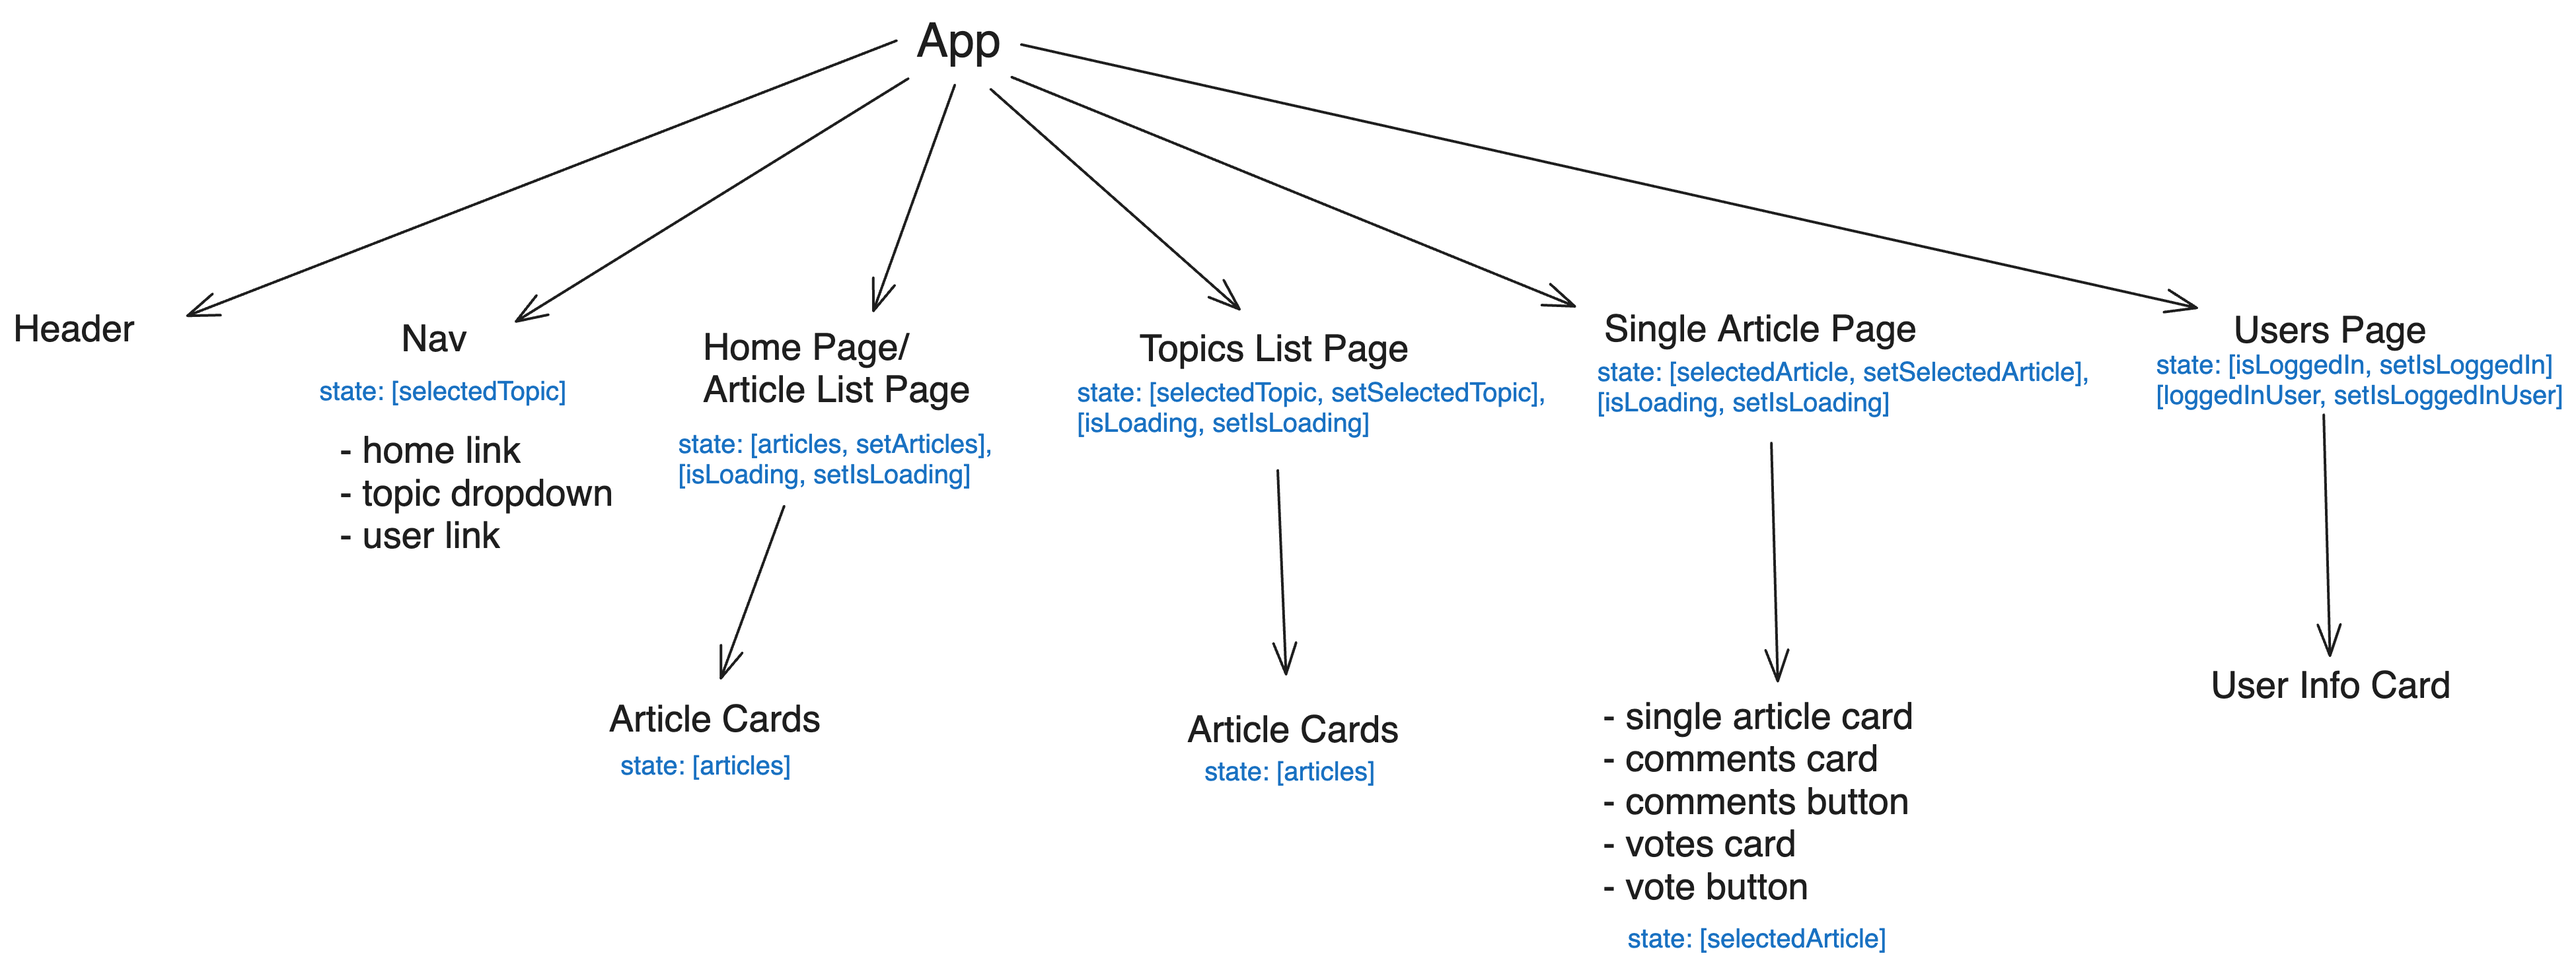
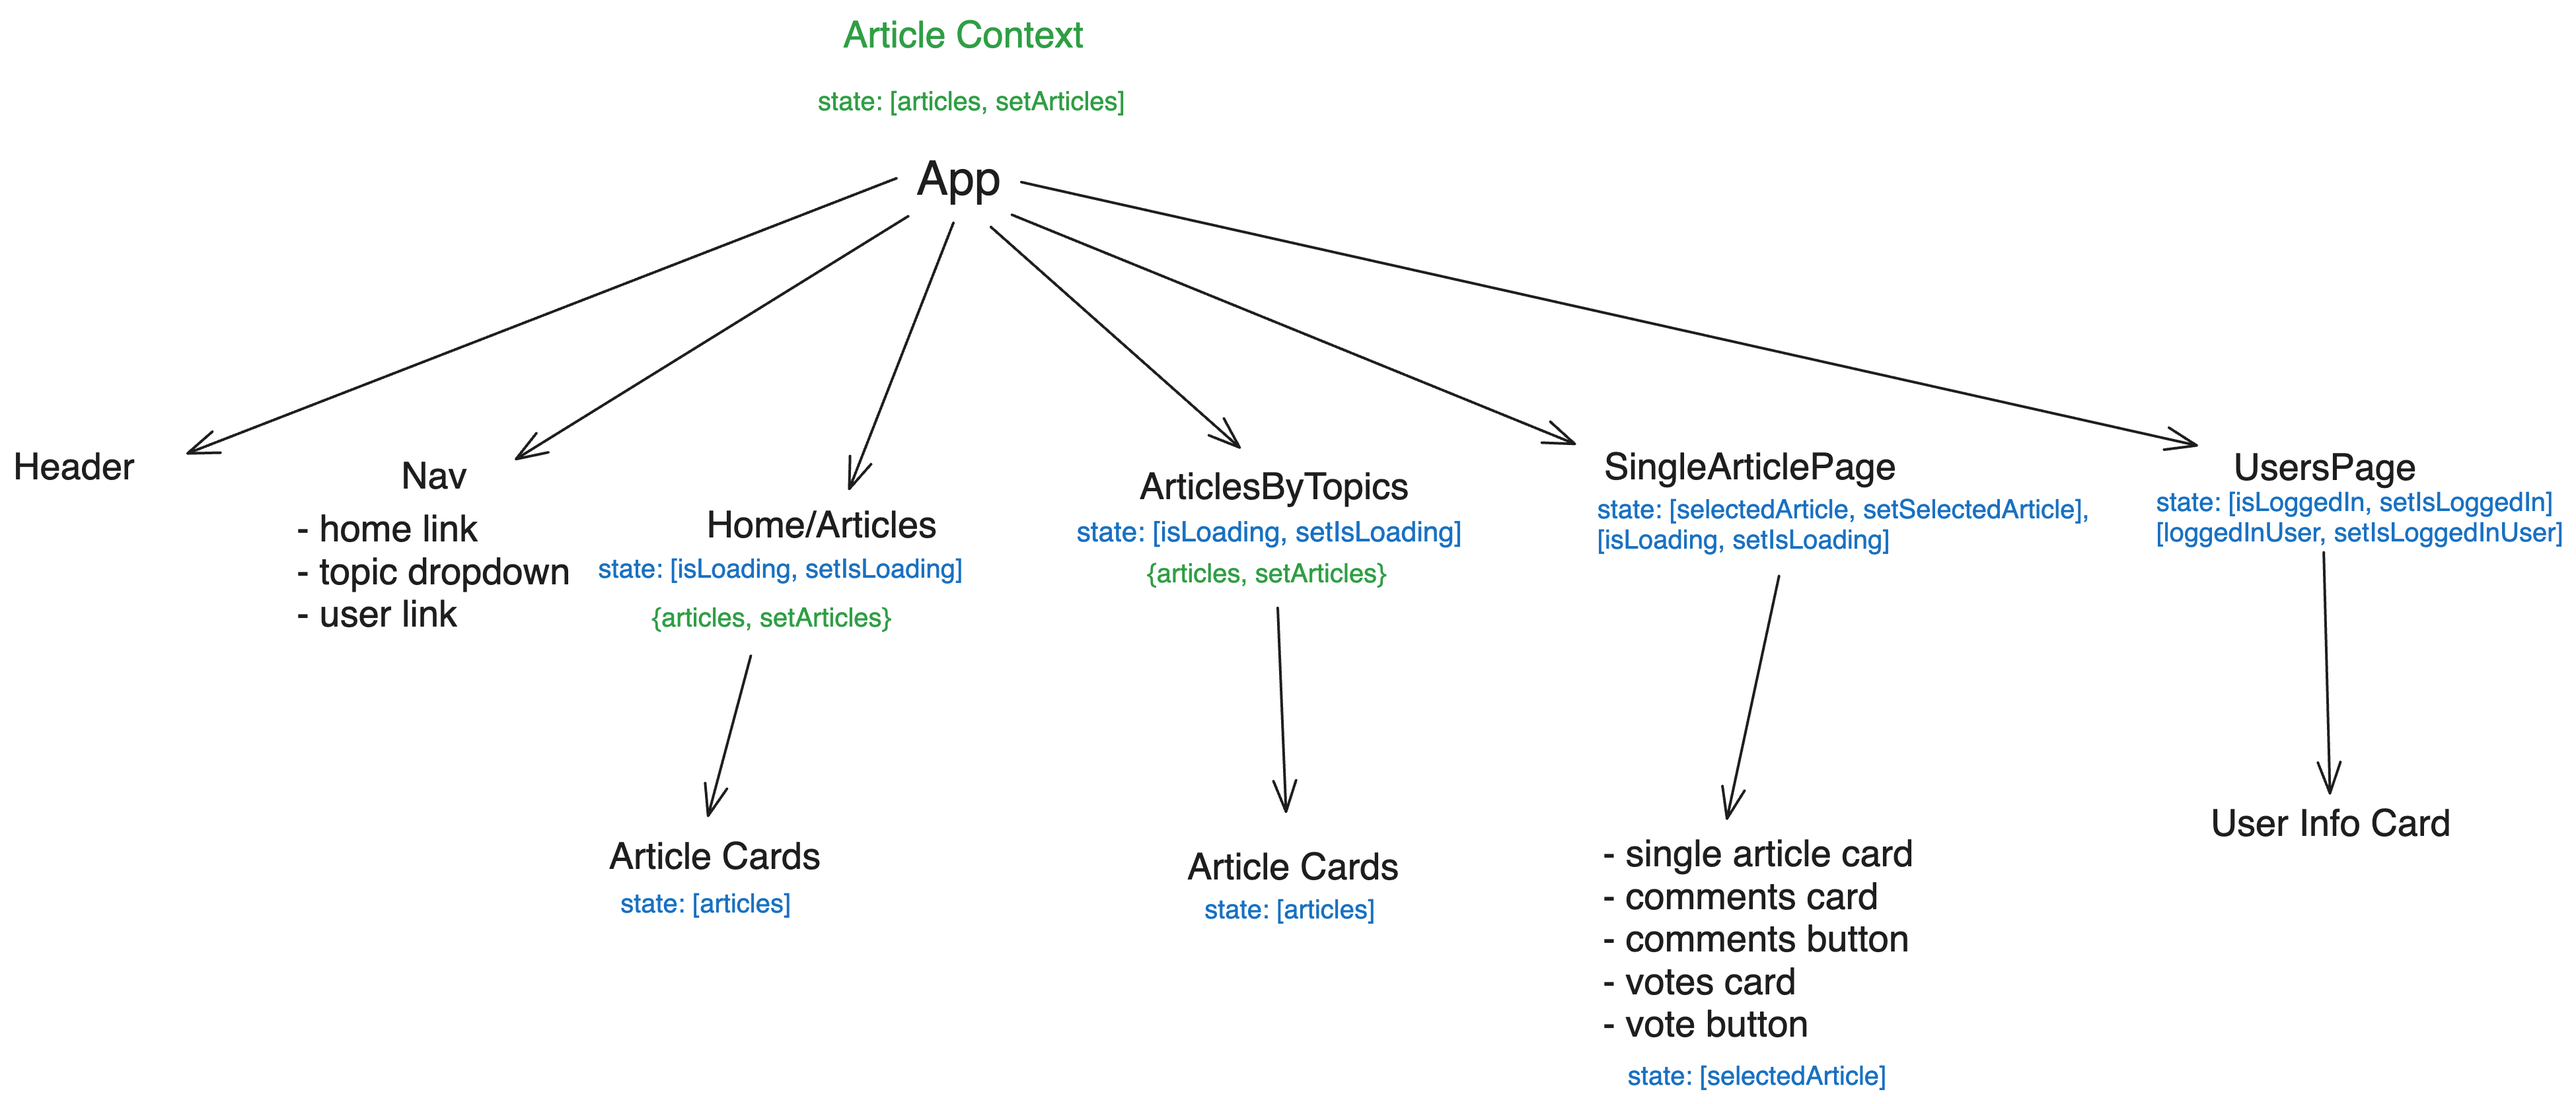
ticket 4 refactored with context

diff --git a/src/App.jsx b/src/App.jsx
@@ -1,21 +1,27 @@
 import './App.css';
 import Header from './components/Header'
 import Nav from './components/Nav';
-import Articles from './components/Articles'
-import ArticlesByTopic from './components/ArticlesByTopic'
+import Articles from './components/Articles';
+import ArticlesByTopic from './components/ArticlesByTopic';
+import ArticleContext from './context/ArticleContext';
 import { Routes, Route } from 'react-router-dom';
+import { createContext, useState } from 'react';
 
 function App() {
+
+    const [articles, setArticles] = useState([]);
 
     return (
     <div className="App">
         <Header />
         <Nav />
+        <ArticleContext.Provider value={{ articles, setArticles }}>
         <Routes>
         <Route path="/" element={<Articles/>} />
         <Route path="/articles" element={<Articles/>} />
         <Route path="/topics/:topic" element={<ArticlesByTopic/>} />
         </Routes>
+        </ArticleContext.Provider>
         </div>
     )
 }

diff --git a/src/components/ArticlesByTopic.jsx b/src/components/ArticlesByTopic.jsx
@@ -1,11 +1,12 @@
 import { useParams } from "react-router-dom";
-import { useState, useEffect } from "react";
+import { useContext, useState, useEffect } from "react";
 import { fetchData } from "../../utils/api";
+import ArticleContext from '../context/ArticleContext'
 
 const ArticlesByTopic = () => {
     const { topic } = useParams();
+    const { articles, setArticles } = useContext(ArticleContext);
     const [isLoading, setIsLoading] = useState(true);
-    const [articles, setArticles] = useState([]);
 
     useEffect(() => {
         setIsLoading(true);
@@ -14,7 +15,7 @@ const ArticlesByTopic = () => {
                 setArticles(data.articles);
                 setIsLoading(false);
             })
-    }, [topic]);
+    }, [topic, setArticles]);
 
     const articlesByTopicMap = articles.map((article) => (
         <li className="article" key={article.article_id}>

diff --git a/src/components/Articles.jsx b/src/components/Articles.jsx
@@ -1,9 +1,10 @@
-import { useState, useEffect } from "react";
+import { useContext, useState, useEffect } from "react";
+import ArticleContext from '../context/ArticleContext'
 import { fetchData } from "../../utils/api";
 
 const Articles = () => {
     const [isLoading, setIsLoading] = useState(true);
-    const [articles, setArticles] = useState([]);
+    const { articles, setArticles } = useContext(ArticleContext);
 
     useEffect(() => {
         setIsLoading(true);
@@ -12,7 +13,7 @@ const Articles = () => {
                 setArticles(data.articles);
                 setIsLoading(false);
             })
-    }, []);
+    }, [setArticles]);
 
 
     const articlesMap = articles.map((article) => (

diff --git a/src/context/ArticleContext.jsx b/src/context/ArticleContext.jsx
@@ -1,0 +1,5 @@
+import { createContext } from "react";
+
+const ArticleContext = createContext()
+
+export default ArticleContext;
